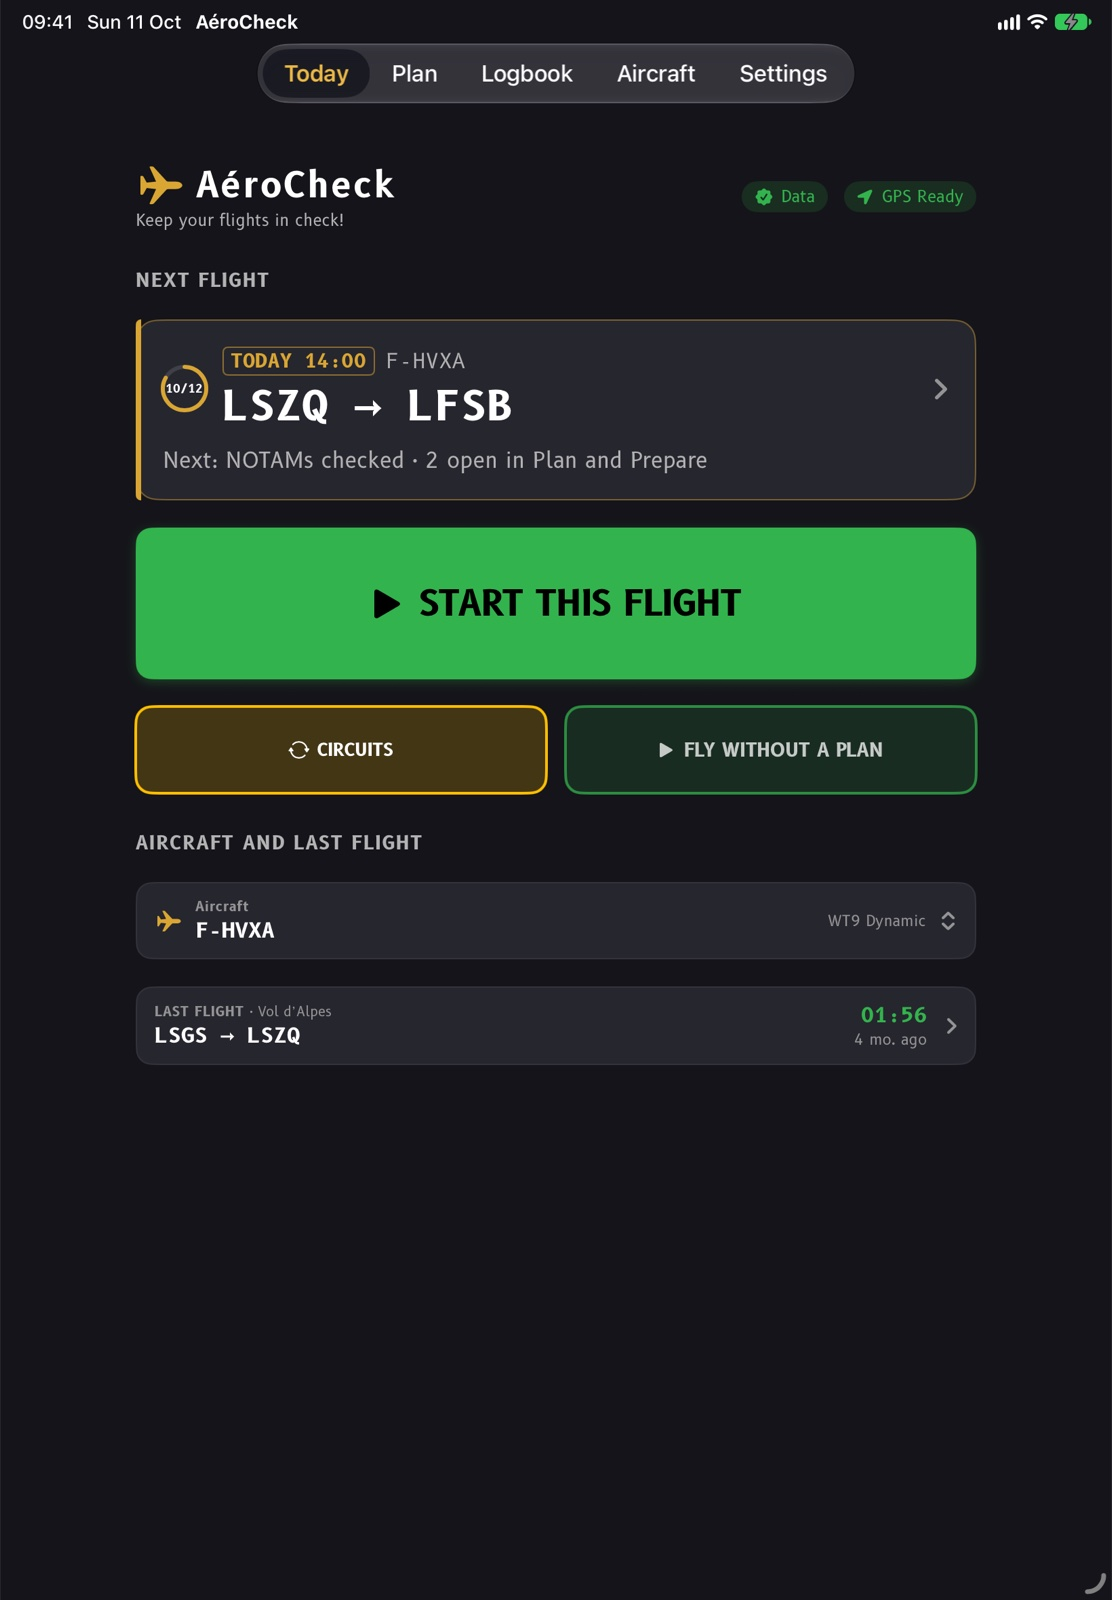
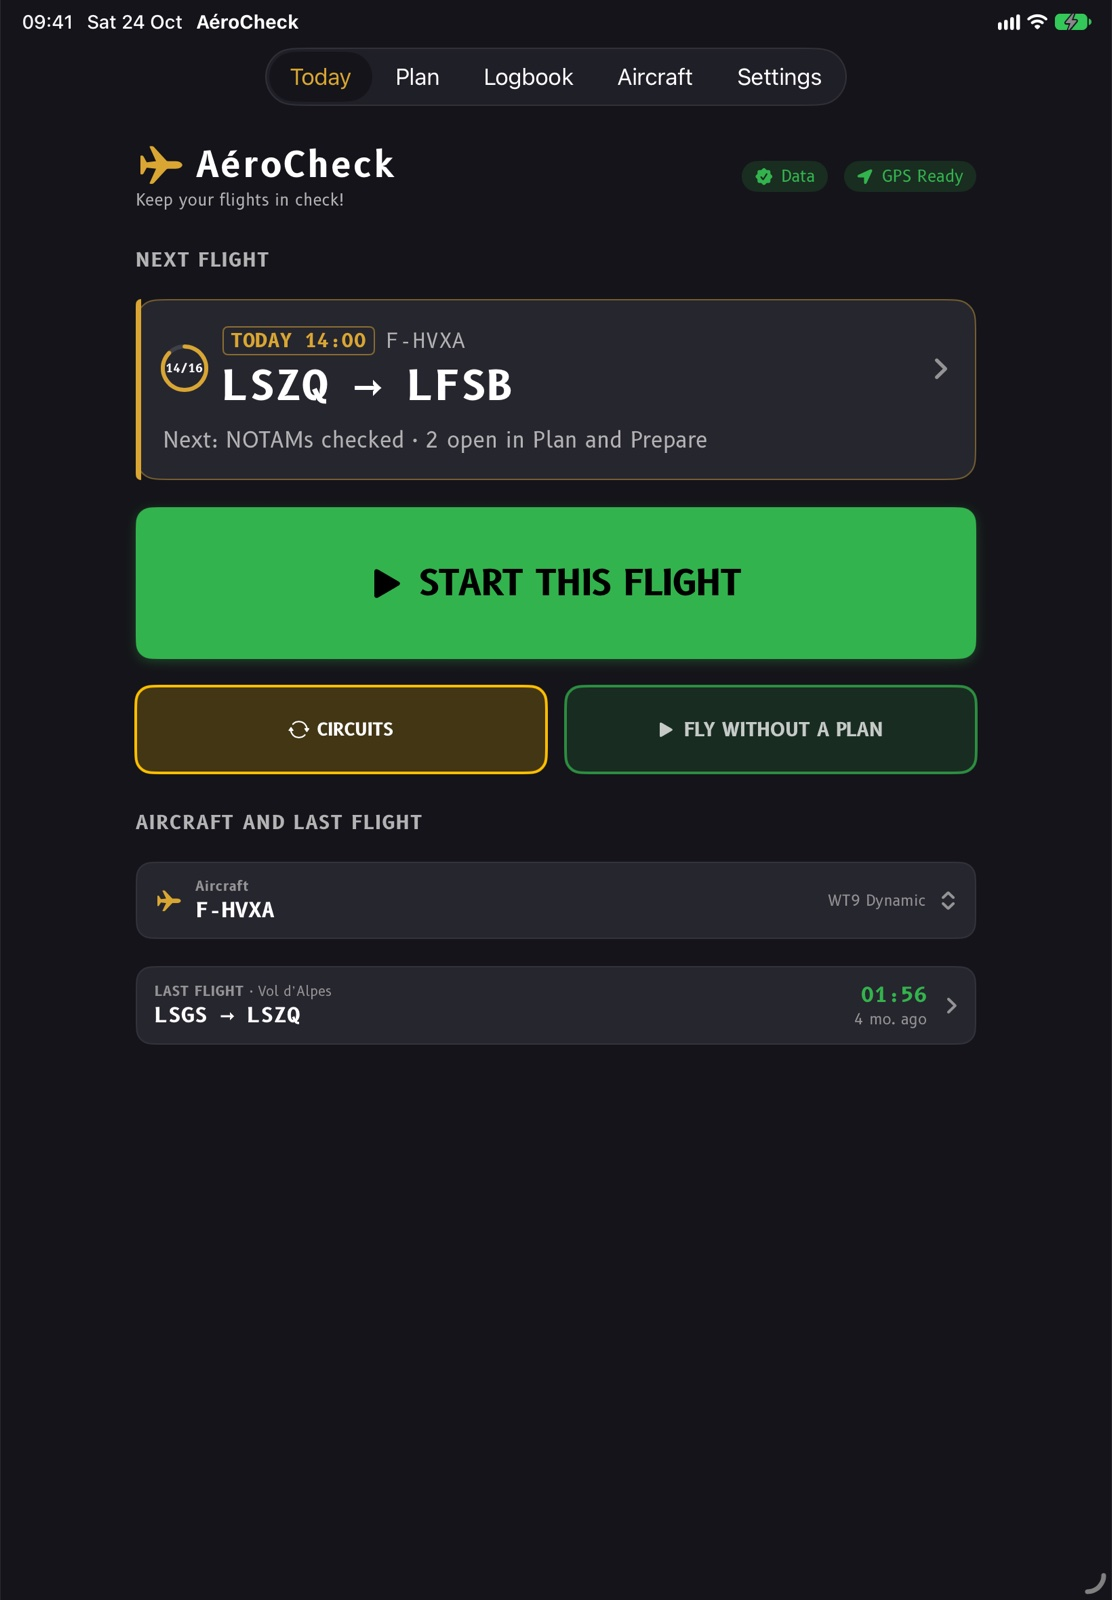
website: the 6.5.0 screenshots
Recaptured from a Debug build of the 6.5.0 code (app #491), capture clock
at 9:41, and compared with the live set below the status bar. Replaced
where 6.5.0 changed the screen: the iPad Cockpit and its map (the bottom
buttons' widths), Today (the ring at 14/16), the flight's page and
Prepare (the Weather block, the briefing links per country), and the
close-out (the country's rule, the Weather row), on both devices where
both show it. Everything else differed only in live values (winds,
SIGMETs, altitudes) and stays. CAPTURED_FROM is 6.5.0.

diff --git a/src/lib/shots.ts b/src/lib/shots.ts
@@ -12,7 +12,7 @@ export interface Shot { ipad: string; iphone: string; label: string; }
 // The app version the whole set was captured from, or checked against when a release changed none of
 // its screens (6.3.0). Bump it with every recapture: a build warns while the latest release is a newer
 // minor version than this (`warnIfShotsAreOld`).
-export const CAPTURED_FROM = '6.4.3';
+export const CAPTURED_FROM = '6.5.0';
 
 // Each URL carries a hash of the image (`?v=1a2b3c4d`), read at build time, so a recaptured image is
 // a new URL. The file names never change, and Cloudflare lets a browser keep an image for 4 hours:
